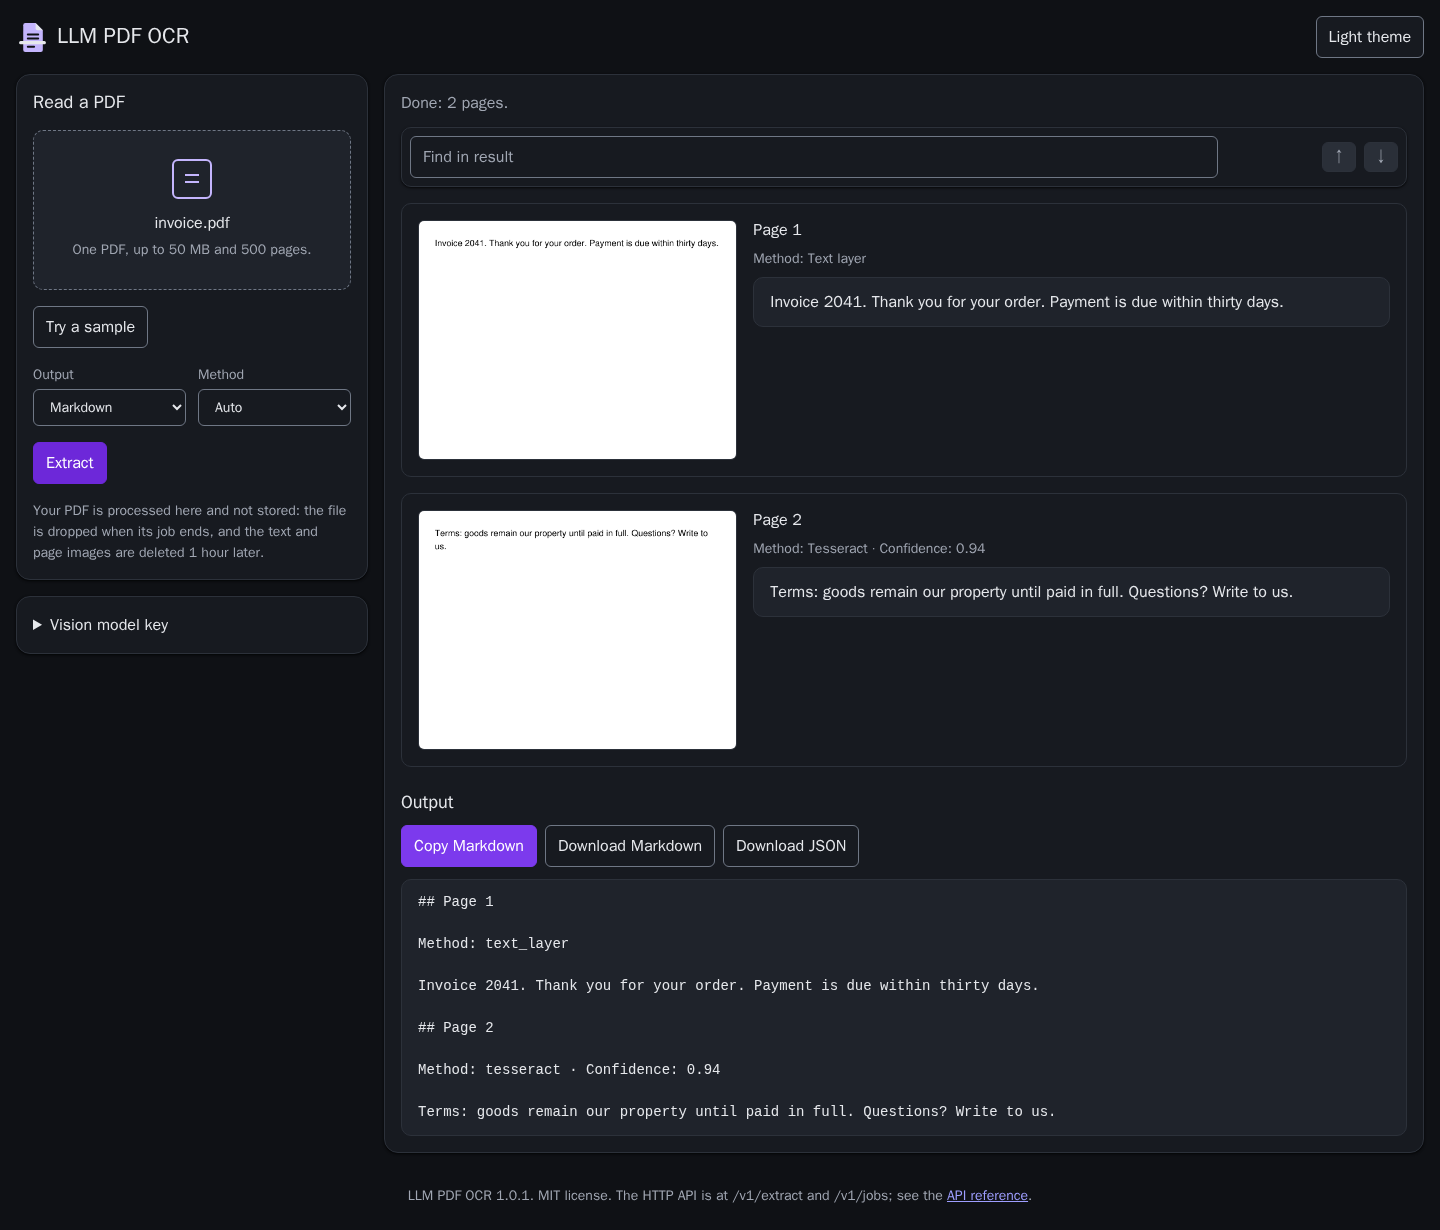
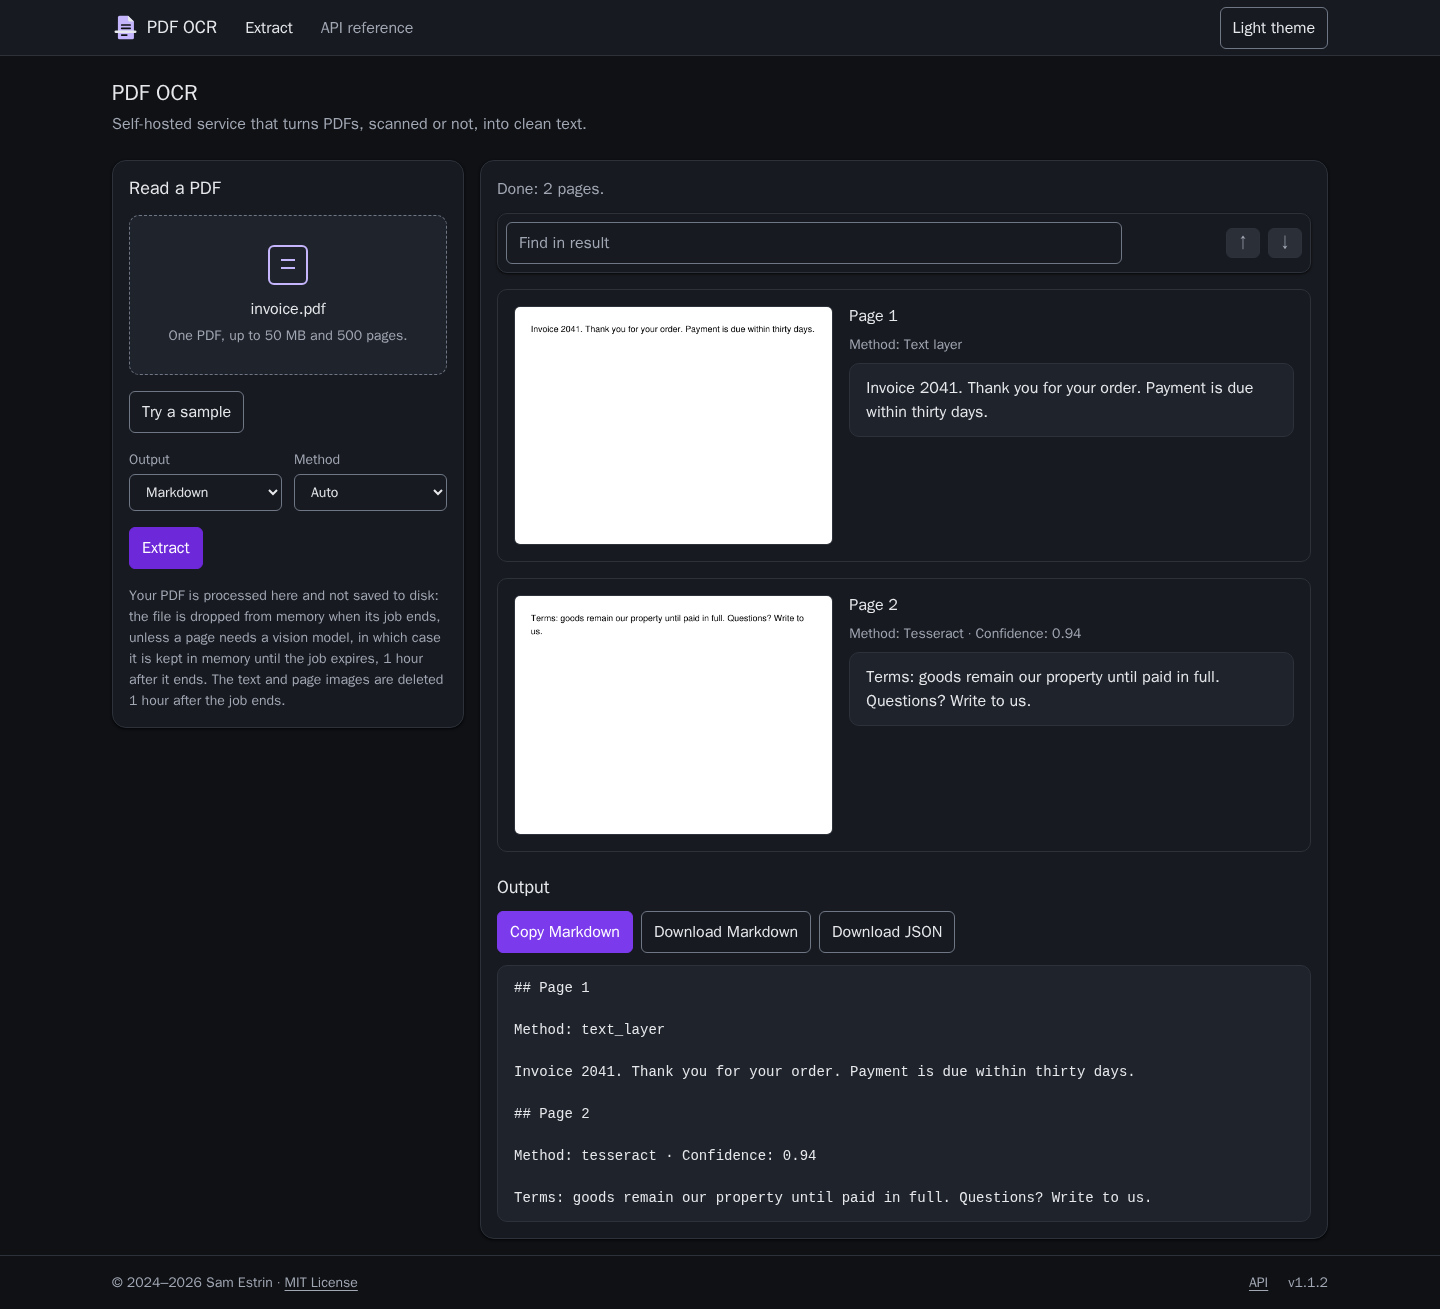
Recapture README screenshots and demo GIF for the demo-shell layout (EST-9379)
Regenerate the five web page screenshots and the demo GIF with the
make_screenshots.py and make_demo_gif.py scripts, now that the page has the
sticky 56 px app bar, 76 rem content, PDF OCR title and tagline, open Model
access panel and footer links row.

Update the README and docs/web-page.md image alt text and page description
for the new shell, and record the layout change in the changelog's Unreleased
Changed list.

diff --git a/docs/web-page.md b/docs/web-page.md
@@ -4,14 +4,14 @@
 
 | Light | Dark |
 | --- | --- |
-| ![The web page in the light theme at desktop width, after reading a two-page PDF: each page's image beside its text, then the full Markdown with copy and download buttons](screenshot-web-page-light-desktop.png) | ![The web page in the dark theme at desktop width, after reading a two-page PDF: each page's image beside its text, then the full Markdown with copy and download buttons](screenshot-web-page-dark-desktop.png) |
-| ![The web page in the light theme at phone width, with the upload card, the two pages stacked and the Markdown output](screenshot-web-page-light-phone.png) | ![The web page in the dark theme at phone width, with the upload card, the two pages stacked and the Markdown output](screenshot-web-page-dark-phone.png) |
+| ![The web page in the light theme at desktop width, after reading a two-page PDF: the sticky PDF OCR app bar with its Extract and API reference links, then each page's image beside its text, then the full Markdown with copy and download buttons](screenshot-web-page-light-desktop.png) | ![The web page in the dark theme at desktop width, after reading a two-page PDF: the sticky PDF OCR app bar with its Extract and API reference links, then each page's image beside its text, then the full Markdown with copy and download buttons](screenshot-web-page-dark-desktop.png) |
+| ![The web page in the light theme at phone width, with the app bar and its menu button, the upload card, the two pages stacked and the Markdown output](screenshot-web-page-light-phone.png) | ![The web page in the dark theme at phone width, with the app bar and its menu button, the upload card, the two pages stacked and the Markdown output](screenshot-web-page-dark-phone.png) |
 
 A page to use the service from a browser: drop or pick a PDF, choose Markdown or JSON and a method, and follow the job's progress. The result shows each page's image as a thumbnail (at most 240 px tall; click it to open the page full size in a new tab) beside its text, the method that read it (named as in the Method menu: Text layer, Tesseract or Vision model), and why it failed if it did; the full Markdown or JSON follows. A find box above the result searches all of that text without sending anything to the server. The Markdown can be copied to the clipboard (which the browser allows on `localhost` or HTTPS), and the result downloaded as `result.md` or `result.json`. The page fits a phone-width screen, where each page's image sits above its text. Page text is shown as text, never as HTML, and a job that has expired is reported as an error.
 
 ## What is on the page
 
-- The header names the app, LLM PDF OCR, with its mark, and has the theme button.
+- The sticky app bar names the app, PDF OCR, with its mark, and has an Extract link, an API reference link and the theme button at the right. Below 48rem the two links move into a menu button. Under the bar, `main` opens with the `PDF OCR` title and the tagline "Self-hosted service that turns PDFs, scanned or not, into clean text."
 - On a public demo (`demo_available` is true or the operator set `PUBLIC_DEMO_NOTICE`, in `/v1/capabilities`), an open **Model access** panel sits above the form and the results. It holds a key or demo code for reading a marked page with a vision model (see below). Its first line is the notice (`notice` in `/v1/capabilities`), as plain muted text. On any other server there is no panel.
 - The form states this service's real limits, filled in from `OCR_MAX_FILE_MB` and `OCR_MAX_PAGES` when the page is served (for example "One PDF, up to 50 MB and 500 pages."), and says what happens to your file: it is dropped when its job ends, unless a page needs a vision model, in which case it is kept in memory until the job expires, `OCR_JOB_TTL_SECONDS` after it ends (default 3600, shown in words, such as "1 hour"); the text and page images are deleted at the same time. See [Jobs](api.md#jobs) for how long a job is held.
 - **Try a sample** loads a small bundled PDF (`/static/samples/sample.pdf`, a copy of `tests/fixtures/mixed.pdf`, 15 KB) and reads it, so you can see a result without a file of your own. Its four pages show both routes: pages read from the text layer and scanned pages read by Tesseract.

diff --git a/README.md b/README.md
@@ -21,19 +21,19 @@ Live demo: https://ocr.samestrin.com
 
 ## Demo
 
-![A recorded session of the web page: Try a sample reads the bundled four-page PDF, each page's text sits beside its image with the method that read it (Text layer for the pages with a text layer, Tesseract with a confidence for the scanned ones), the find box highlights a word and steps through its matches, and the API reference at /docs opens on POST /v1/extract](docs/demo-web-page.gif)
+![A recorded session of the web page: under the sticky PDF OCR app bar with its Extract and API reference links and the theme button, Try a sample reads the bundled four-page PDF, each page's text sits beside its image with the method that read it (Text layer for the pages with a text layer, Tesseract with a confidence for the scanned ones), the find box highlights a word and steps through its matches, and the API reference at /docs opens on POST /v1/extract](docs/demo-web-page.gif)
 
 The GIF is a real session, recorded by `uv run python docs/make_demo_gif.py`: the app runs on a local port, the bundled sample is read by the text layer and by Tesseract, and nothing is stubbed.
 
-![The web page in the light theme at desktop width, after reading a two-page PDF: each page's image beside its text, then the full Markdown with copy and download buttons](docs/screenshot-web-page-light-desktop.png)
+![The web page in the light theme at desktop width, after reading a two-page PDF: the sticky PDF OCR app bar with its Extract and API reference links, the theme button and the PDF OCR title and tagline above the form, then each page's image beside its text, then the full Markdown with copy and download buttons, and the footer with the copyright, API link and version](docs/screenshot-web-page-light-desktop.png)
 
-![The web page in the dark theme at desktop width, after reading a two-page PDF: each page's image beside its text, then the full Markdown with copy and download buttons](docs/screenshot-web-page-dark-desktop.png)
+![The web page in the dark theme at desktop width, after reading a two-page PDF: the sticky PDF OCR app bar with its Extract and API reference links, the theme button and the PDF OCR title and tagline above the form, then each page's image beside its text, then the full Markdown with copy and download buttons, and the footer with the copyright, API link and version](docs/screenshot-web-page-dark-desktop.png)
 
-![The web page before a file is chosen: the form with its limits and a Try a sample button, and a results panel that explains each method](docs/screenshot-web-page-empty-light-desktop.png)
+![The web page before a file is chosen: the PDF OCR app bar and title, the form with its limits and a Try a sample button, and a results panel that explains each method](docs/screenshot-web-page-empty-light-desktop.png)
 
 | Light, phone | Dark, phone |
 | --- | --- |
-| ![The web page in the light theme at phone width, with the upload card, the two pages stacked and the Markdown output](docs/screenshot-web-page-light-phone.png) | ![The web page in the dark theme at phone width, with the upload card, the two pages stacked and the Markdown output](docs/screenshot-web-page-dark-phone.png) |
+| ![The web page in the light theme at phone width, with the app bar and its menu button, the upload card, the two pages stacked and the Markdown output](docs/screenshot-web-page-light-phone.png) | ![The web page in the dark theme at phone width, with the app bar and its menu button, the upload card, the two pages stacked and the Markdown output](docs/screenshot-web-page-dark-phone.png) |
 
 The screenshots are made by `uv run python docs/make_screenshots.py`, with a stubbed jobs API, so they are the same on every machine.
 

diff --git a/CHANGELOG.md b/CHANGELOG.md
@@ -10,6 +10,7 @@ All notable changes to this project are recorded here. Add new entries under Unr
 
 ### Changed
 
+- Web page: the layout now matches the demo shell the owner's other demo apps use. A sticky 56 px app bar spans the page with the mark and `PDF OCR` on the left, `Extract` and `API reference` links (a menu button below 48rem) and the theme button on the right; the content is 76 rem wide, under a skip link, and `main` opens with the `PDF OCR` title and the tagline. The collapsed key panel became an open **Model access** panel above the extract form, shown on a public demo, whose first line is the notice. The footer is the links row described below. The README screenshots and the demo GIF were recaptured from this layout, and the README and `docs/web-page.md` alt text and page description name it.
 - Web page: the error banner's dark-theme background now uses the shared demo shell's `--color-danger-subtle` dark value `#3a1d1b` (was ocr's own `#2d1717`), so the three demo apps match. A new test parses `style.css` and pins every shared design token (colours, spacing, radius, type, focus ring, layout) to the demo-shell spec table, and a browser test pins the primary and secondary buttons at 42 px tall with 16 px text.
 - Web page: the centred version line in the footer is replaced by the shared demo shell's footer links row: the copyright `© 2024–<year> Sam Estrin · MIT License` (the year filled in by the server, `MIT License` a link to the repo's `LICENSE` on GitHub) on the left, and a links row on the right with `API` at `/docs` and the version (`v<version>`) last, as text. Only pages the service already serves are linked, so there are no Privacy or Terms links; the licence link is the only external URL the page references, and it loads nothing. Below 48rem the row stacks into a centred column. The docs page has no footer.
 - The README links the live demo at https://ocr.samestrin.com and says how to try its vision reads: with your own OpenAI, OpenRouter, Synthetic or Alibaba (DashScope) key, or a demo code.
